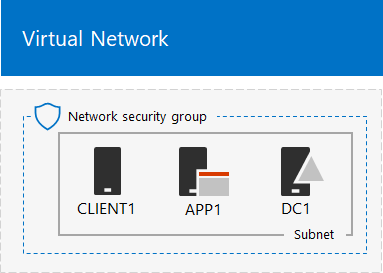
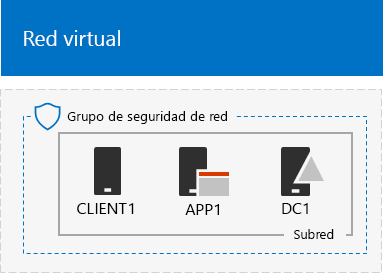
commit translated contents

diff --git a/microsoft-365/enterprise/simulated-ent-base-configuration-microsoft-365-enterprise.md b/microsoft-365/enterprise/simulated-ent-base-configuration-microsoft-365-enterprise.md
@@ -15,12 +15,12 @@ ms.custom:
 - Ent_TLGs
 ms.assetid: 6f916a77-301c-4be2-b407-6cec4d80df76
 description: Utilice esta guía de laboratorio de pruebas para crear un entorno de prueba empresarial simulado para Microsoft 365 Enterprise.
-ms.openlocfilehash: bbb3bc2fc7d2abab395dc50481f1955382eca144
-ms.sourcegitcommit: ea48c86c727dcd9d4b3b970b14a4260337f158f9
+ms.openlocfilehash: 98eb336a0f63f47b4b79de44c46fcd81f1d9c9f6
+ms.sourcegitcommit: 2bdd7b535a7d2a4896df130b7047f8c85f4d47b4
 ms.translationtype: HT
 ms.contentlocale: es-ES
-ms.lasthandoff: 11/18/2019
-ms.locfileid: "38694137"
+ms.lasthandoff: 11/19/2019
+ms.locfileid: "38711884"
 ---
 # <a name="the-simulated-enterprise-base-configuration"></a>La configuración básica empresarial simulada
 
@@ -213,7 +213,7 @@ Después, configure la nueva cuenta User1 como administrador de esquema, empresa
   
 ```powershell
 $yourDomain="<your public domain>"
-$domainName = "testlab"+$yourDomain
+$domainName = "testlab."+$yourDomain
 $userName="user1@" + $domainName
 $userSID=(New-Object System.Security.Principal.NTAccount($userName)).Translate([System.Security.Principal.SecurityIdentifier]).Value
 $groupNames=@("Domain Admins","Enterprise Admins","Schema Admins")
